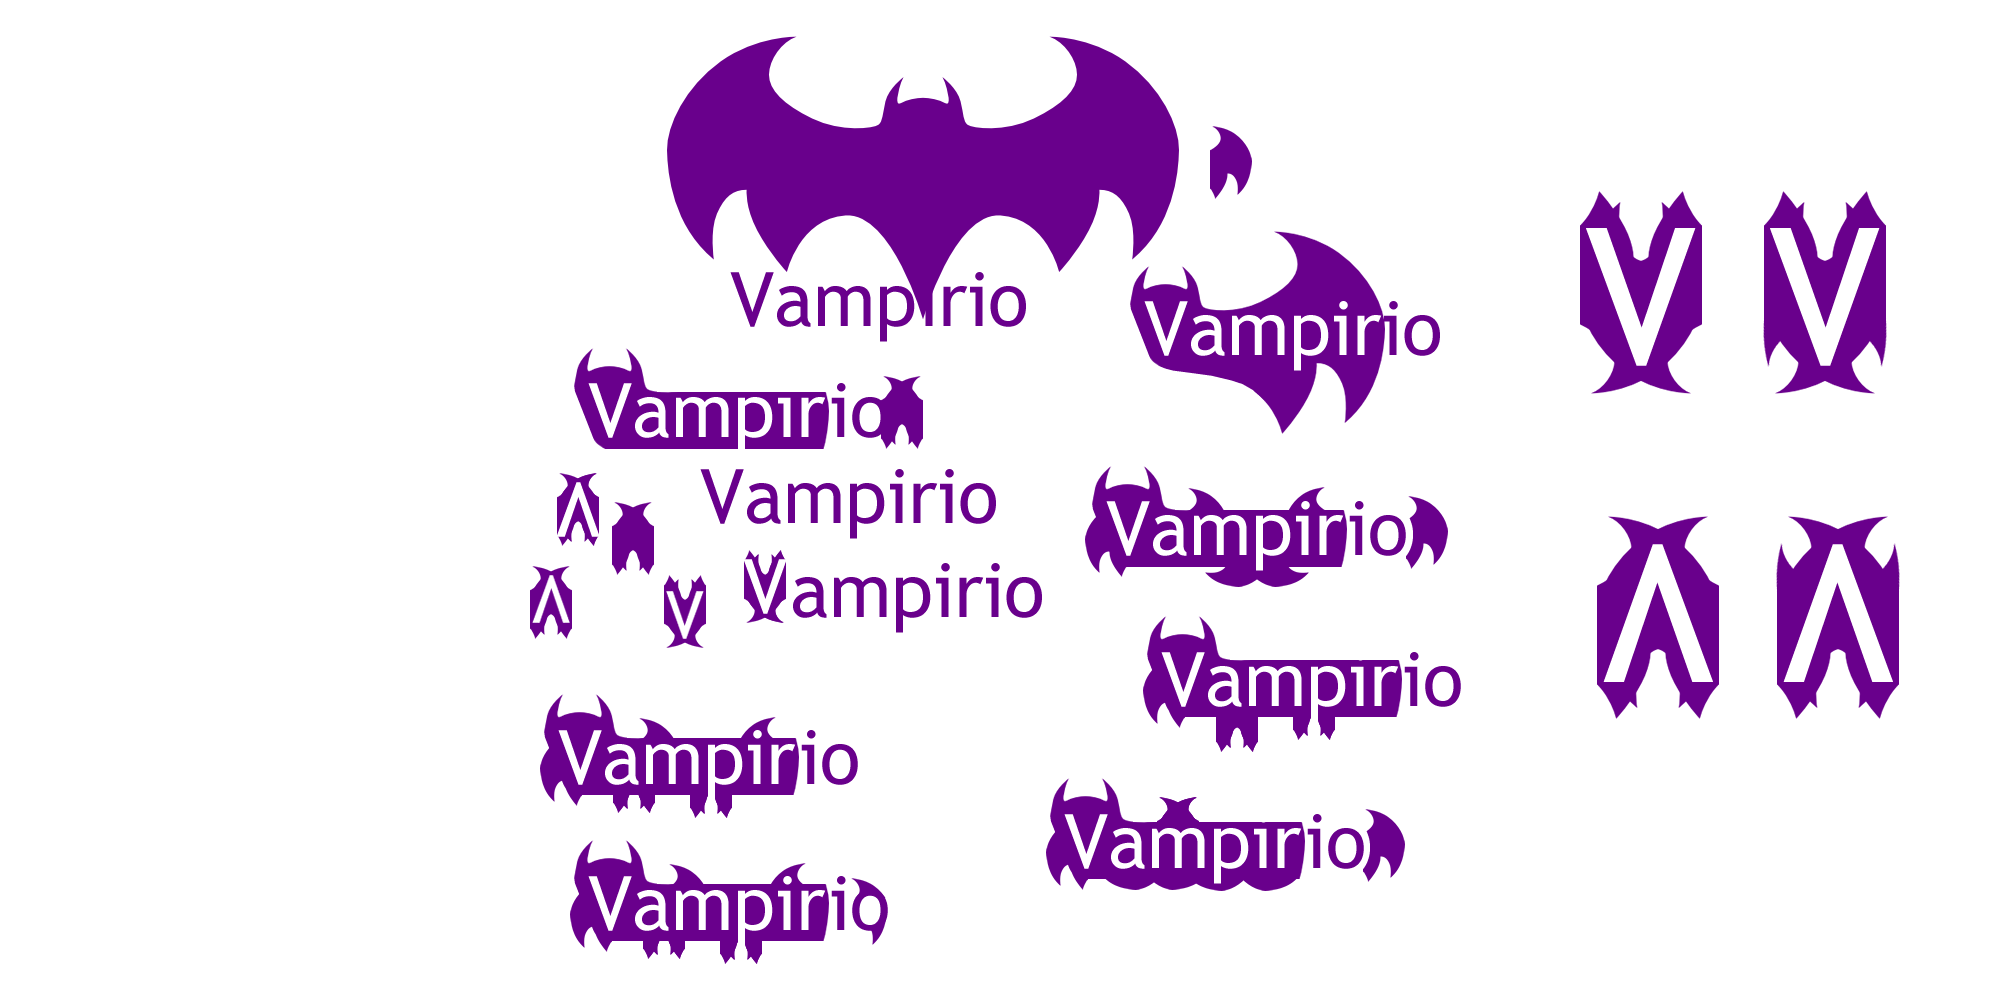
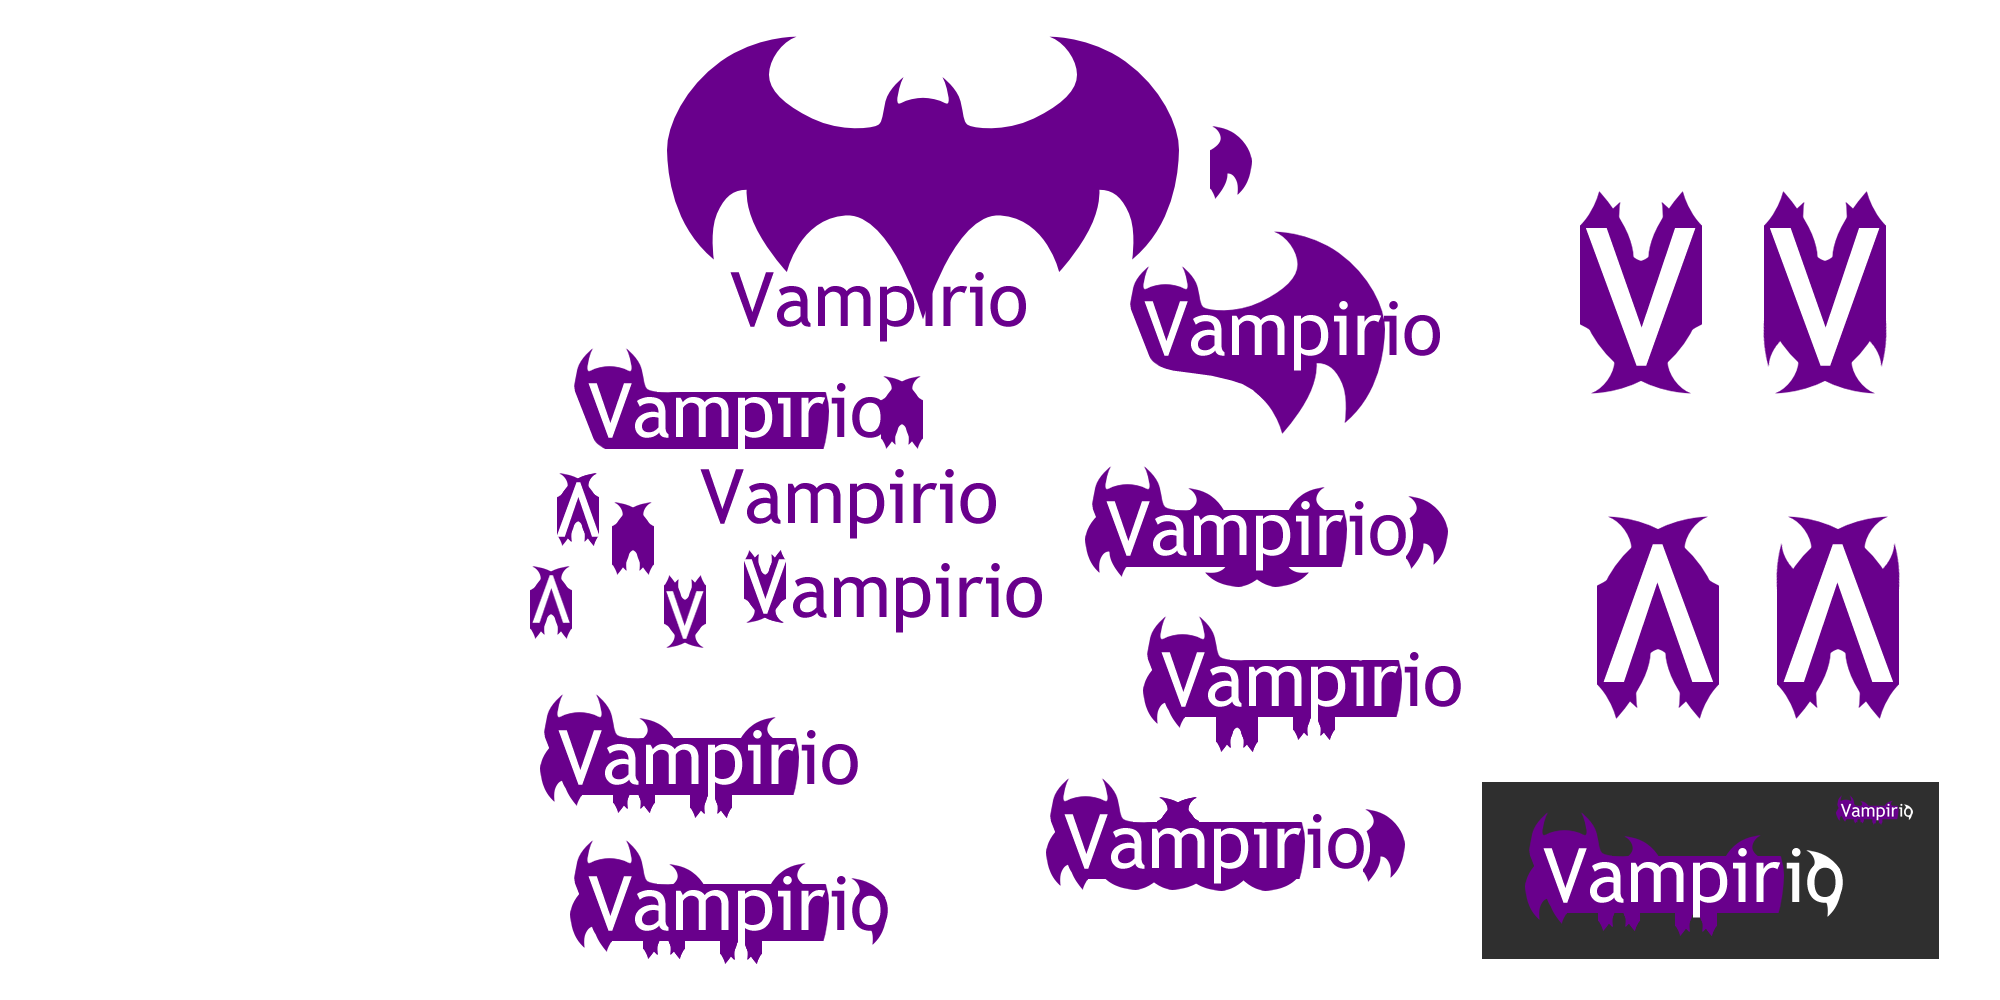
update images

Changed region(s): [[0.744, 0.775, 0.992, 0.961]]

diff --git a/VampirioCode/Properties/Resources.Designer.cs b/VampirioCode/Properties/Resources.Designer.cs
@@ -103,6 +103,16 @@ namespace VampirioCode.Properties {
         /// <summary>
         ///   Looks up a localized resource of type System.Drawing.Bitmap.
         /// </summary>
+        internal static System.Drawing.Bitmap logo_mini {
+            get {
+                object obj = ResourceManager.GetObject("logo_mini", resourceCulture);
+                return ((System.Drawing.Bitmap)(obj));
+            }
+        }
+        
+        /// <summary>
+        ///   Looks up a localized resource of type System.Drawing.Bitmap.
+        /// </summary>
         internal static System.Drawing.Bitmap play_icon {
             get {
                 object obj = ResourceManager.GetObject("play_icon", resourceCulture);
